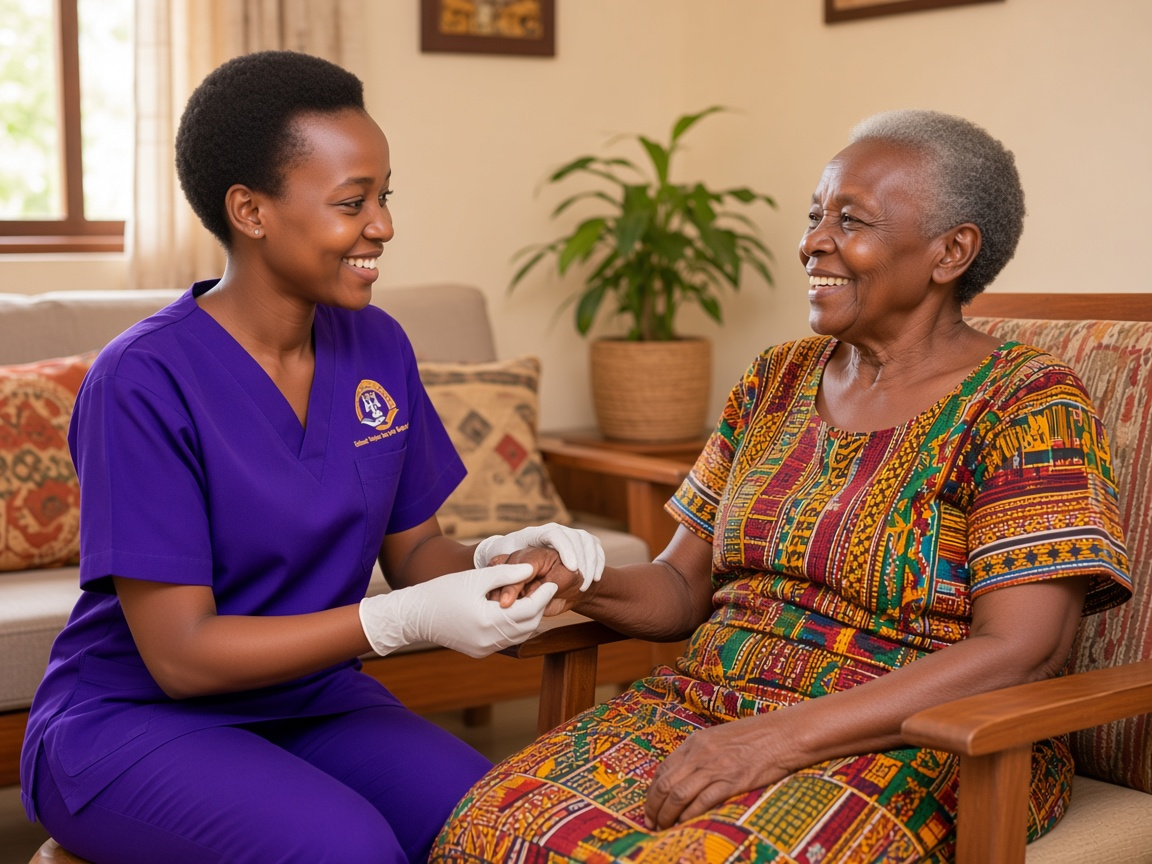
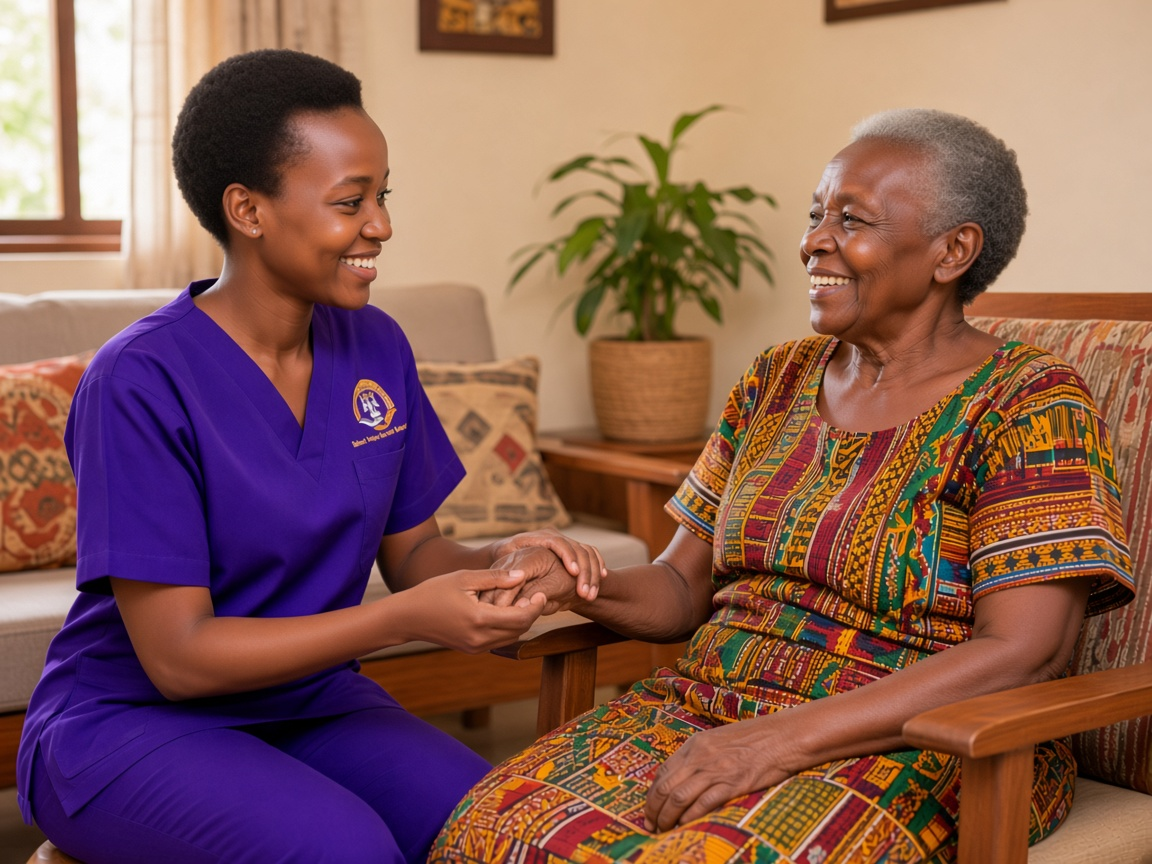
Deduplicate gallery images across sections and pathways.
Gives each careers pathway a unique photo, regenerates eldercare without gloves, and adds a distinct private-home-care scene so childcare no longer shares elder-care imagery.

diff --git a/src/data/careers.ts b/src/data/careers.ts
@@ -5,8 +5,8 @@ export const careersContent = {
       "NITA-certified skills, supervised placements, and graduates working across Kenya’s care economy.",
     ctaLabel: "See pathways",
     ctaHref: "#pathways",
-    image: "/gallery/purple-ng-training.jpg",
-    imageAlt: "THM students practicing clinical skills in the simulation lab",
+    image: "/gallery/ng-tube-coaching.jpg",
+    imageAlt: "THM students practicing clinical procedures in the skills lab",
   },
   stats: [
     { value: "150+", label: "Graduates building careers in care" },
@@ -21,18 +21,18 @@ export const careersContent = {
     ctaHref: "/apply",
     collage: [
       {
-        src: "/gallery/instructor-with-students.jpg",
-        alt: "Instructor coaching THM students at the bedside",
+        src: "/gallery/lab-bedside-wide.jpg",
+        alt: "Students practicing bedside care",
         className: "left-0 top-0 h-[58%] w-[58%]",
       },
       {
-        src: "/gallery/branded-scrubs-close.jpg",
-        alt: "THM students in branded purple scrubs",
+        src: "/gallery/lab-team-practice.jpg",
+        alt: "THM students practicing as a team",
         className: "right-0 top-[8%] h-[42%] w-[48%]",
       },
       {
-        src: "/gallery/lab-team-practice.jpg",
-        alt: "Students practicing patient care together",
+        src: "/gallery/purple-ng-training.jpg",
+        alt: "Clinical skills practice in purple scrubs",
         className: "bottom-0 right-[6%] h-[44%] w-[62%]",
       },
     ],
@@ -42,7 +42,7 @@ export const careersContent = {
       title: "Hospital placements",
       body: "Train under registered nurse supervision on real wards — vitals, patient support, and clinical confidence before you graduate.",
       tags: ["Ward support", "Vital signs", "RN supervision"],
-      image: "/gallery/ng-tube-coaching.jpg",
+      image: "/gallery/instructor-with-students.jpg",
       href: "/programs",
     },
     {
@@ -63,7 +63,7 @@ export const careersContent = {
       title: "Private home care",
       body: "One-to-one support for recovering or at-risk clients — the intimate, high-trust work many families need most.",
       tags: ["One-to-one", "Recovery", "Family trust"],
-      image: "/gallery/eldercare-handholding.jpg",
+      image: "/gallery/private-home-care.jpg",
       href: "/contact",
     },
   ],

diff --git a/src/components/TrainingShowcase.tsx b/src/components/TrainingShowcase.tsx
@@ -60,8 +60,8 @@ export function TrainingShowcase() {
               className="relative min-h-[200px] flex-1 overflow-hidden"
             >
               <Image
-                src="/gallery/ng-tube-coaching.jpg"
-                alt="THM students practicing clinical skills with instructor guidance"
+                src="/gallery/lab-team-practice.jpg"
+                alt="THM students practicing patient care as a team"
                 fill
                 className="object-cover"
                 sizes="(max-width: 1024px) 100vw, 40vw"
@@ -69,7 +69,7 @@ export function TrainingShowcase() {
               <div className="absolute inset-0 bg-thm-purple/40 mix-blend-multiply" />
               <div className="absolute bottom-0 left-0 right-0 bg-thm-ink/85 px-5 py-4">
                 <p className="font-poppins font-semibold text-white">
-                  Guided skills coaching
+                  Team-based learning
                 </p>
               </div>
             </motion.div>
@@ -82,8 +82,8 @@ export function TrainingShowcase() {
               className="relative min-h-[200px] flex-1 overflow-hidden"
             >
               <Image
-                src="/gallery/feeding-practice.jpg"
-                alt="THM students in branded scrubs practicing tube feeding"
+                src="/gallery/purple-ng-training.jpg"
+                alt="THM students in branded scrubs practicing clinical skills"
                 fill
                 className="object-cover object-top"
                 sizes="(max-width: 1024px) 100vw, 40vw"

diff --git a/src/components/landing/MomentsSection.tsx b/src/components/landing/MomentsSection.tsx
@@ -5,36 +5,32 @@ import Link from "next/link";
 import { motion } from "framer-motion";
 import { FadeUp, Stagger, StaggerItem } from "./Motion";
 
+/** Distinct from PathPinned, Skills, and Careers pathways. */
 const gallery = [
   {
-    src: "/gallery/lab-bedside-wide.jpg",
-    caption: "Bedside care practice",
+    src: "/gallery/childcare-reading-together.jpg",
+    caption: "Childcare skills",
     span: "sm:col-span-2 min-h-[220px] lg:min-h-[280px]",
   },
   {
-    src: "/gallery/purple-ng-training.jpg",
-    caption: "Clinical skills lab",
+    src: "/gallery/branded-scrubs-close.jpg",
+    caption: "THM in training",
     span: "min-h-[180px] lg:min-h-[280px]",
   },
   {
-    src: "/gallery/childcare-students-toddler.jpg",
-    caption: "Childcare & safeguarding",
+    src: "/gallery/lab-practice-alt.jpg",
+    caption: "Skills assessment",
     span: "min-h-[180px]",
   },
   {
-    src: "/gallery/instructor-coaching.jpg",
-    caption: "Guided instruction",
+    src: "/gallery/lab-practice-alt2.jpg",
+    caption: "Simulation ward",
     span: "min-h-[180px]",
   },
   {
-    src: "/gallery/eldercare-handholding.jpg",
-    caption: "Dignity in elder care",
+    src: "/gallery/lab-practice-alt3.jpg",
+    caption: "Clinical confidence",
     span: "min-h-[180px]",
-  },
-  {
-    src: "/gallery/feeding-practice.jpg",
-    caption: "Hands-on procedures",
-    span: "min-h-[180px] sm:col-span-2 lg:col-span-1",
   },
 ];
 

diff --git a/src/components/about/AboutHero.tsx b/src/components/about/AboutHero.tsx
@@ -18,8 +18,8 @@ export function AboutHero({ headline, subhead }: AboutHeroProps) {
     <section className="relative w-full overflow-hidden bg-thm-ink">
       <div className="relative h-[min(100svh,900px)] min-h-[600px] w-full sm:min-h-[700px]">
         <Image
-          src="/gallery/lab-bedside-wide.jpg"
-          alt="THM caregiver trainees practicing bedside care in the skills lab"
+          src="/gallery/instructor-coaching.jpg"
+          alt="THM caregiver training in the skills lab"
           fill
           priority
           className="object-cover object-center"

diff --git a/src/components/landing/PathPinnedSection.tsx b/src/components/landing/PathPinnedSection.tsx
@@ -9,13 +9,13 @@ const chapters = [
     num: "01",
     title: "Arrive ready to learn",
     text: "Whether you are fresh from school or changing careers — enrollment is your first confident step.",
-    src: "/gallery/instructor-with-students.jpg",
+    src: "/gallery/ng-tube-coaching.jpg",
   },
   {
     num: "02",
     title: "Train with your hands",
     text: "Labs turn theory into muscle memory — vitals, hygiene, transfers, and patient dignity.",
-    src: "/gallery/purple-ng-training.jpg",
+    src: "/gallery/feeding-practice.jpg",
   },
   {
     num: "03",

diff --git a/src/data/caregiverSkills.ts b/src/data/caregiverSkills.ts
@@ -141,7 +141,7 @@ export const caregiverSkillGroups: SkillGroup[] = [
     id: "safety",
     name: "Safety & Equipment",
     blurb: "Infection control and safe handling in every care setting you enter.",
-    image: "/gallery/instructor-coaching.jpg",
+    image: "/gallery/lab-team-practice.jpg",
     skills: [
       {
         title: "Hand hygiene",

diff --git a/src/components/CurriculumSection.tsx b/src/components/CurriculumSection.tsx
@@ -53,7 +53,7 @@ const groups: {
       "Disinfection & decontamination",
       "Standard & transmission-based precautions",
     ],
-    image: "/gallery/instructor-with-students.jpg",
+    image: "/gallery/instructor-coaching.jpg",
   },
 ];
 
